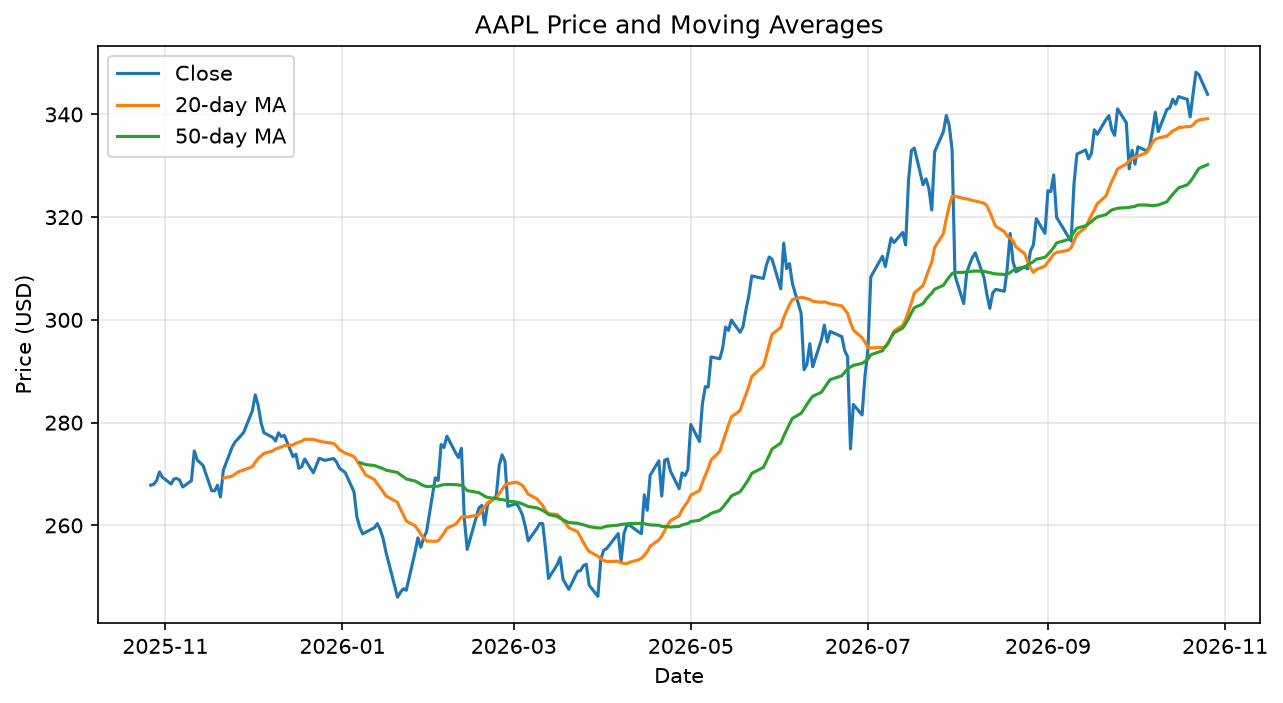
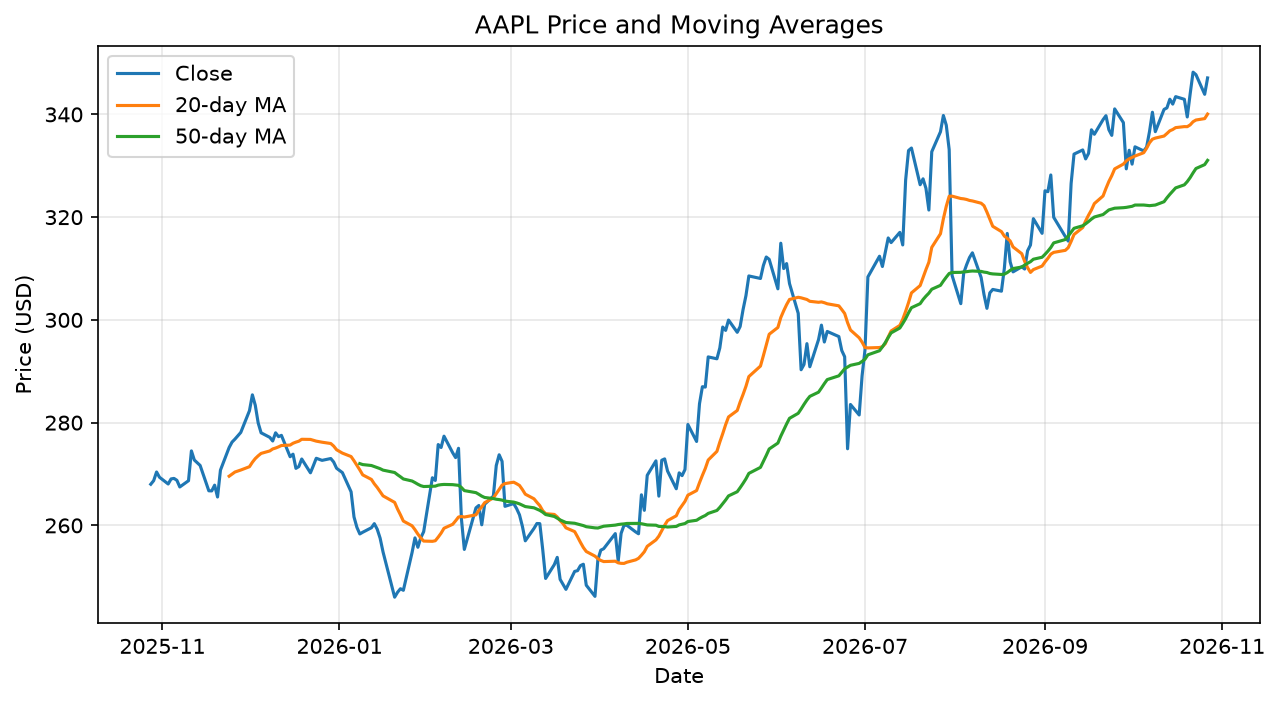
Stage 5: add MA crossover backtest

diff --git a/main.py b/main.py
@@ -1,12 +1,15 @@
 import yfinance as yf
 import sys
+import argparse
 import matplotlib.pyplot as plt
 from pathlib import Path
+
 
 
 CHART_DIR = Path("charts")
 TRADING_DAYS = 252
 RISK_FREE_RATE = 0.0
+TRADE_COST = 0.001
 
 
 def get_data(ticker, period="1y"):
@@ -25,6 +28,15 @@ def compute_metrics(data):
     data["MA20"] = data["Close"].rolling(20).mean()
     data["MA50"] = data["Close"].rolling(50).mean()
     return data
+
+def sharpe_ratio(returns):
+    excess_returns = returns - RISK_FREE_RATE / TRADING_DAYS
+    return excess_returns.mean() / returns.std() * TRADING_DAYS ** 0.5
+
+
+def max_drawdown(returns):
+    growth = (1 + returns.fillna(0)).cumprod()
+    return (growth / growth.cummax() - 1).min()
 
 
 def summarize(data):
@@ -83,13 +95,83 @@ def plot_returns(data, ticker):
     plt.ylabel("Number of days")
     plt.savefig(CHART_DIR / f"{ticker}_returns_hist.png", dpi=150, bbox_inches="tight")
 
+    def backtest(data, cost=TRADE_COST):
+        """Hold the stock when MA20 > MA50, otherwise sit in cash."""
+        df = data.copy()
+
+        # 1. Signal: 1 when the short average is above the long one
+        signal = (df["MA20"] > df["MA50"]).astype(int)
+
+        # 2. Position: trade on YESTERDAY's signal (avoids look-ahead bias)
+        df["Position"] = signal.shift(1).fillna(0)
+
+        # Start both strategies on the first day the 50-day MA exists
+        df = df[df["MA50"].notna()].copy()
+
+        # 3. Strategy return = position x market return, minus trading costs
+        trades = df["Position"].diff().abs().fillna(0)
+        df["Strategy Return"] = df["Position"] * df["Daily Return"] - trades * cost
+
+        # 4. Growth of $1 for each approach
+        df["Strategy Growth"] = (1 + df["Strategy Return"]).cumprod()
+        df["Buy & Hold Growth"] = (1 + df["Daily Return"]).cumprod()
+
+        return df, int(trades.sum())
+
+
+def print_backtest(df, trades):
+    print("\n--- Backtest: 20/50-day MA crossover ---")
+    print(f"{'':<12}{'Return':>10}{'Sharpe':>10}{'Max DD':>10}")
+    for name, returns in [
+        ("Strategy", df["Strategy Return"]),
+        ("Buy & hold", df["Daily Return"]),
+    ]:
+        total = (1 + returns).prod() - 1
+        print(f"{name:<12}{total:>10.2%}{sharpe_ratio(returns):>10.2f}"
+              f"{max_drawdown(returns):>10.2%}")
+    print(f"Trades: {trades} (cost per trade: {TRADE_COST:.2%})")
+
+
+def plot_backtest(df, ticker):
+    plt.figure(figsize=(10, 5))
+    plt.plot(df.index, df["Strategy Growth"], label="MA crossover strategy")
+    plt.plot(df.index, df["Buy & Hold Growth"], label="Buy & hold")
+    plt.title(f"{ticker}: Strategy vs Buy & Hold")
+    plt.xlabel("Date")
+    plt.ylabel("Growth of $1")
+    plt.legend()
+    plt.grid(alpha=0.3)
+    plt.savefig(CHART_DIR / f"{ticker}_backtest.png", dpi=150, bbox_inches="tight")
+
+def parse_args():
+    parser = argparse.ArgumentParser(
+        description="Analyze a stock's price history, returns, and risk."
+    )
+    parser.add_argument(
+        "--backtest",
+        action="store_true",
+        help="compare a 20/50-day MA crossover strategy with buy & hold",
+    )
+    parser.add_argument("ticker", help="ticker symbol, e.g. AAPL")
+    parser.add_argument(
+        "--period",
+        default="1y",
+        help="how far back to look, e.g. 6mo, 1y, 5y, max (default: 1y)",
+    )
+    parser.add_argument(
+        "--no-show",
+        action="store_true",
+        help="save charts without opening windows",
+    )
+    return parser.parse_args()
 
 def main():
-    ticker = input("Enter a ticker: ").upper().strip()
+    args = parse_args()
+    ticker = args.ticker.upper().strip()
 
-    data = get_data(ticker)
+    data = get_data(ticker, args.period)
     if data is None:
-        print(f"No data found for {ticker}")
+        print(f"No data found for {ticker} (period: {args.period})")
         sys.exit(1)
 
     data = compute_metrics(data)
@@ -99,7 +181,15 @@ def main():
     CHART_DIR.mkdir(exist_ok=True)
     plot_price(data, ticker)
     plot_returns(data, ticker)
-    plt.show()
+    if args.backtest:
+        bt, trades = backtest(data)
+        if bt.empty:
+            print("Not enough data to backtest. Try a longer --period.")
+        else:
+            print_backtest(bt, trades)
+            plot_backtest(bt, ticker)
+    if not args.no_show:
+        plt.show()
 
 
 if __name__ == "__main__":
